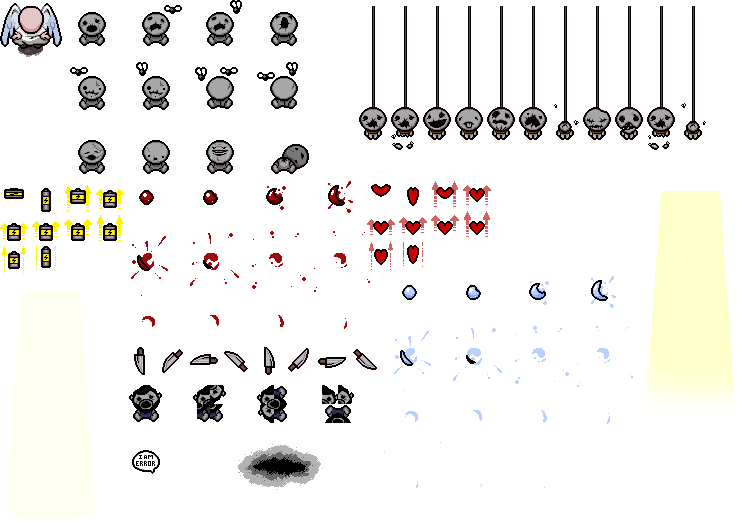
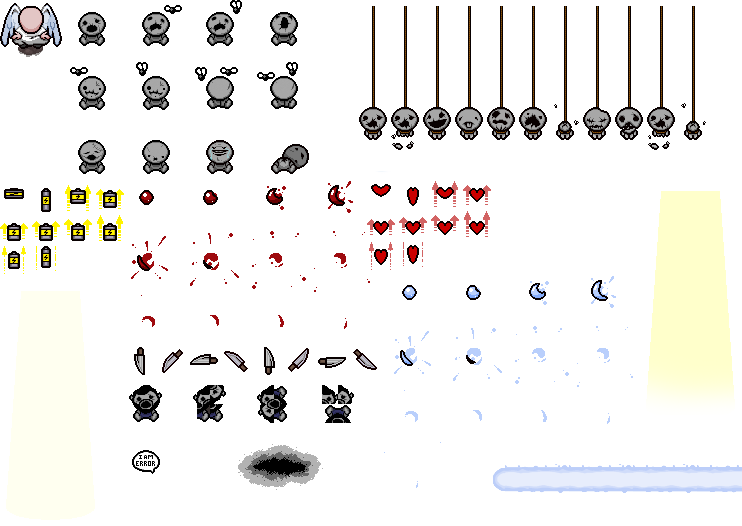
{+} add brimstone when the freq_tears >= 8

Changed region(s): [[0.6509, 0.8821, 1.0, 0.943]]

diff --git a/menu/includes/motor.h b/menu/includes/motor.h
@@ -72,13 +72,13 @@ typedef struct boss_spawning_s {
 typedef struct boss_s {
     sfSprite *sp;
     sfVector2f pos;
-    int pv;
+    float pv;
     int speed;
     bool is_flying;
     int decal_texture;
     int max_decal;
     boss_spawning_t bospt;
-    int total_life;
+    float total_life;
 }boss_t;
 
 typedef struct {
@@ -97,7 +97,7 @@ typedef struct {
 typedef struct {
     int speed;
     int shot_speed;
-    int damages;
+    float damages;
     int freq_tears;
     int luck;
 }stats;
@@ -179,7 +179,7 @@ typedef struct {
     sfVector2f pos;
     bool is_shooting;
     bool is_flying;
-    int pv;
+    float pv;
     int speed;
 }adv_t;
 

diff --git a/menu/motor_s/tears/tears_shooting.c b/menu/motor_s/tears/tears_shooting.c
@@ -30,6 +30,11 @@ void shoot_tears(int id, reduce *red)
     if (red->py->st.damages >= 6)
         sfSprite_setTextureRect(red->te[nb_tears].t_sp, (sfIntRect)
         {318, 357, 28, 11});
+    if (red->py->st.freq_tears >= 8) {
+        sfSprite_setTextureRect(red->te[nb_tears].t_sp, (sfIntRect)
+                {505, 465, 100, 26});
+        sfSprite_setColor(red->te[nb_tears].t_sp, sfRed);
+    }
     rect = center_tears(id, rect, red);
     sfSprite_setPosition(red->te[nb_tears].t_sp, rect);
     red->te[nb_tears].move = true;

diff --git a/menu/sources/manage_rooms2.c b/menu/sources/manage_rooms2.c
@@ -33,6 +33,7 @@ void player_room(sfRenderWindow *wd, reduce *red, options *sprt)
         ((32 * 3.5) / 2), 115});
         sfRenderWindow_drawSprite(wd, sprt->win, NULL);
     }
+    draw_enemies(red->enem_t, wd, red->py, red->rm);
     red->rm->timer_tears.timer_total += sfClock_getElapsedTime(red->enem_t->total_clock)
     .microseconds - red->rm->timer_tears.timer;
     while (red->rm->timer_tears.timer_total > 8000 / (red->py->st.shot_speed / 2)) {

diff --git a/menu/sources/main_func.c b/menu/sources/main_func.c
@@ -40,7 +40,6 @@ int my_game(window *wndw, sfEvent event, reduce *red, options *sprt)
     choose_texture_player(red, sprt);
     recharge_room(red, false, false);
     player_room(wndw->window, red, sprt);
-    draw_enemies(red->enem_t, wndw->window, red->py, red->rm);
     check_move_all(red);
     draw_life(red->py, wndw->window);
     draw_bonus(red->rm, wndw->window, red->py, red->ro);

diff --git a/menu/motor_s/other/reduce.c b/menu/motor_s/other/reduce.c
@@ -51,10 +51,10 @@ void disp_stat_hud(reduce *red, sfRenderWindow *wd)
 stats create_stats(void)
 {
     stats st;
-    st.damages = 10;
-    st.freq_tears = 10;
+    st.damages = 0.05;
+    st.freq_tears = 250;
     st.luck = 1;
-    st.shot_speed = 10;
+    st.shot_speed = 75;
     st.speed = 6;
     return st;
 }
